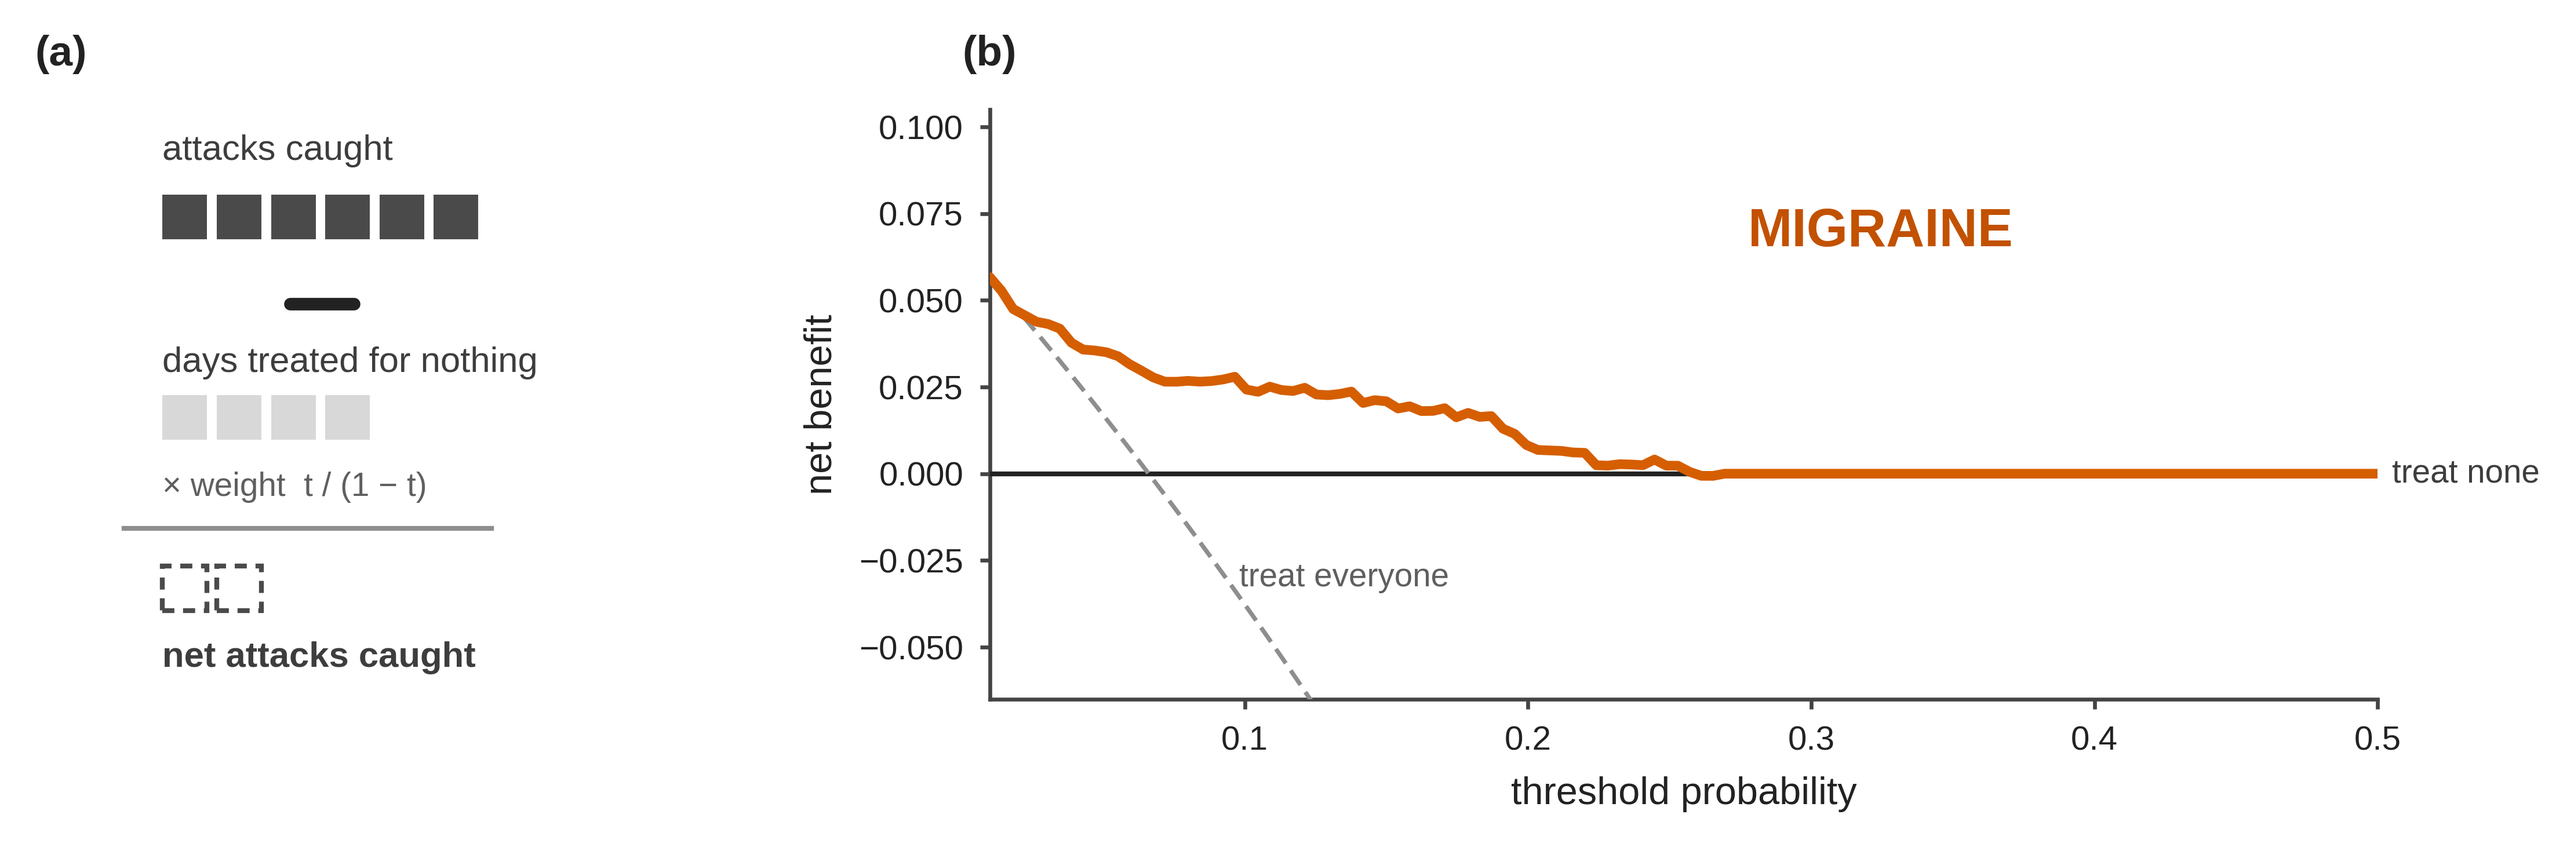
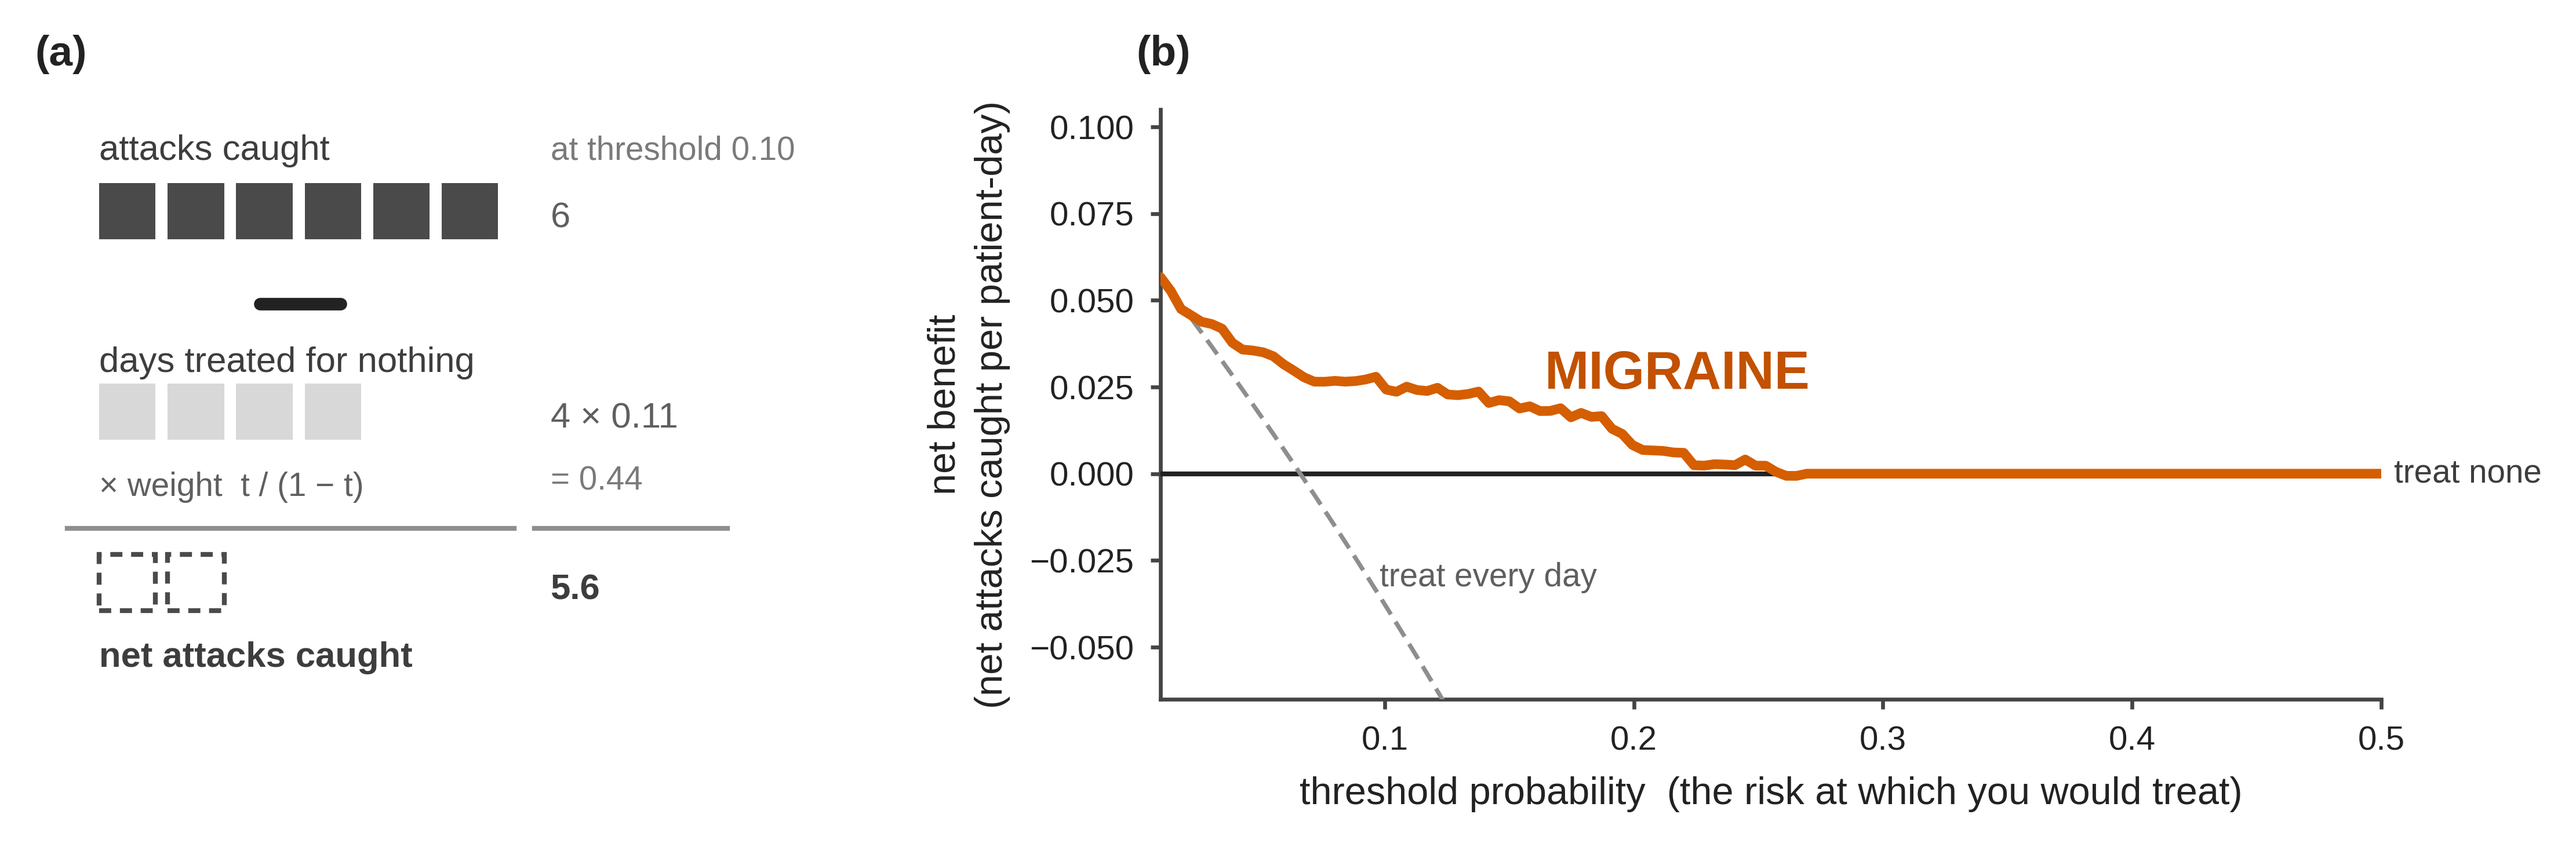
unit

diff --git a/docs/methodAndResults_diagramCreatorScripts/fig_m_evaluation_series.py b/docs/methodAndResults_diagramCreatorScripts/fig_m_evaluation_series.py
@@ -208,10 +208,12 @@ def _how_dca(ax):
     # The operator must have clear space on BOTH sides and be nearer its operands
     # than any label, or proximity binds it to the words instead and it reads as a
     # dash -- which is what blind readers reported. Rows are spaced to give it room.
-    X0, W = 18.0, 8.5
+    X0, W, NX = 6.0, 8.5, 62.0            # NX: the worked example, column-aligned
+    _lab(ax, NX, 93, "at threshold 0.10", PT_FINE, THIRD)
     for i in range(6):
         _sq(ax, X0 + i * W, 78, 7, A_STRONG, anchor="bottom")
     _lab(ax, X0, 93, "attacks caught", PT_BODY, BODY)
+    _lab(ax, NX, 81.5, "6", PT_BODY, SECOND)
     # drawn as a rule, not a glyph: length and weight then scale to the icons
     ax.plot([X0 + 20, X0 + 30], [67, 67], color=A_INK, lw=2.6,
             solid_capstyle="round", zorder=5)
@@ -219,10 +221,14 @@ def _how_dca(ax):
         _sq(ax, X0 + i * W, 44, 7, A_LIGHT, anchor="bottom")
     _lab(ax, X0, 57, "days treated for nothing", PT_BODY, BODY)
     _lab(ax, X0, 36, "\u00d7 weight  t / (1 \u2212 t)", PT_FINE, SECOND)
-    ax.plot([X0 - 6, X0 + 5 * W + 9], [29, 29], color=A_MID, lw=1.0, zorder=2)
+    _lab(ax, NX, 47.5, "4 \u00d7 0.11", PT_BODY, SECOND)
+    _lab(ax, NX, 37, "= 0.44", PT_FINE, THIRD)
+    ax.plot([X0 - 4, X0 + 5 * W + 9], [29, 29], color=A_MID, lw=1.0, zorder=2)
+    ax.plot([NX - 2, NX + 22], [29, 29], color=A_MID, lw=1.0, zorder=2)
     for i in range(2):
         _sq(ax, X0 + i * W, 15, 7, A_STRONG, anchor="bottom", outline=True)
     _lab(ax, X0, 7, "net attacks caught", PT_BODY, BODY, weight="bold")
+    _lab(ax, NX, 18.5, "5.6", PT_BODY, BODY, weight="bold")
 
 
 def _skill_panel(ax, rows, cols):
@@ -278,21 +284,23 @@ def _dca_panel(ax, preds, col):
     # anchor where the curve is furthest from the policy line, not at a fixed index,
     # and offset perpendicular to the local slope in display units so the gap is the
     # same on a steep segment as on a flat one
-    lo, hi = int(len(ts) * 0.20), int(len(ts) * 0.55)
-    j = lo + int(np.argmax(nb[lo:hi] - nb_all[lo:hi]))
+    _lab(ax, 0.505, 0.0, "treat none", PT_FINE, BODY)
+    _lab(ax, 0.098, -0.030, "treat every day", PT_FINE, SECOND)
+    ax.set_xlim(0.01, 0.50); ax.set_ylim(-0.065, 0.105)
+    # only now is transData the real mapping; computing the perpendicular offset
+    # before the limits are set uses the autoscaled one and throws the label off
+    j = int(len(ts) * 0.30)
     inv = ax.transData.inverted()
     p0 = ax.transData.transform((ts[j], nb[j]))
     p1 = ax.transData.transform((ts[min(j + 1, len(ts) - 1)], nb[min(j + 1, len(nb) - 1)]))
     dx, dy = p1[0] - p0[0], p1[1] - p0[1]
     n = (dx * dx + dy * dy) ** 0.5 or 1.0
-    off = 13.0                                   # display points, normal to the curve
-    tx, ty = inv.transform((p0[0] - dy / n * off, p0[1] + dx / n * off))
+    tx, ty = inv.transform((p0[0] - dy / n * 11.0, p0[1] + dx / n * 11.0))
     _lab(ax, tx, ty, "MIGRAINE", PT_VALUE, MIG_TEXT, weight="bold")
-    _lab(ax, 0.505, 0.0, "treat none", PT_FINE, BODY)
-    _lab(ax, 0.098, -0.030, "treat everyone", PT_FINE, SECOND)
-    ax.set_xlim(0.01, 0.50); ax.set_ylim(-0.065, 0.105)
-    ax.set_xlabel("threshold probability", fontsize=PT_AXIS)
-    ax.set_ylabel("net benefit", fontsize=PT_AXIS)
+    ax.set_xlabel("threshold probability  (the risk at which you would treat)",
+                  fontsize=PT_AXIS)
+    ax.set_ylabel("net benefit\n(net attacks caught per patient-day)",
+                  fontsize=PT_AXIS, linespacing=1.4)
     ax.tick_params(labelsize=PT_TICK, length=2)
     for sp in ("top", "right"):
         ax.spines[sp].set_visible(False)
@@ -442,7 +450,7 @@ def _rank_panel(ax):
         ax.spines[sp].set_visible(False)
 
 
-def _one(name, how, how_args, draw_right, right_args, after=None):
+def _one(name, how, how_args, draw_right, right_args, after=None, wr=0.46):
     """One figure in the series: the schematic beside the quantity it explains.
 
     Each is full column width and short, the shape this literature uses for a
@@ -450,7 +458,7 @@ def _one(name, how, how_args, draw_right, right_args, after=None):
     now lives in the manuscript caption, which is where a journal expects it.
     """
     fig = plt.figure(figsize=(183 / 25.4, 62 / 25.4))
-    gs = fig.add_gridspec(1, 2, width_ratios=[0.46, 1.0],
+    gs = fig.add_gridspec(1, 2, width_ratios=[wr, 1.0],
                           left=0.055, right=0.985, top=0.88, bottom=0.185,
                           wspace=0.30)
     axl, axr = fig.add_subplot(gs[0, 0]), fig.add_subplot(gs[0, 1])
@@ -481,7 +489,7 @@ def main() -> None:
     _one("fig_m2_within_person", _how_within, (), _rank_panel, ())
     _one("fig_m3_brier_skill", _how_brier, (), _skill_panel,
          ([("migraine", mig_row), ("headache", hea_row)], [ORA, BLU]))
-    _one("fig_m4_net_benefit", _how_dca, (), _dca_panel, (preds, ORA))
+    _one("fig_m4_net_benefit", _how_dca, (), _dca_panel, (preds, ORA), wr=0.66)
 
 
 if __name__ == "__main__":
